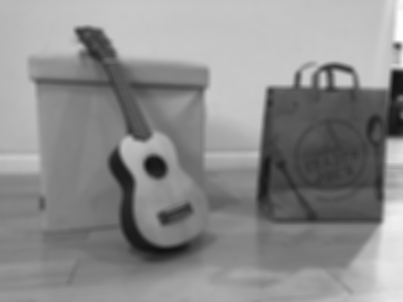
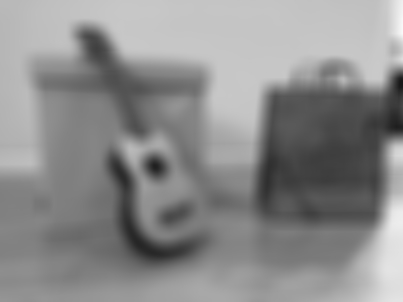
fixed a few more errors, but not working still

diff --git a/src/homography.cpp b/src/homography.cpp
@@ -34,6 +34,8 @@ vector<vector<float>> harris(const FloatImage im, int levels, vector<FloatImage>
     // get the spatially gradiated pyramid (using the sobel operator)
     for(int i = 0; i < levels; i++){
         vector<FloatImage> magOri = gradientMagnitude(pyramid[i], true);
+        // get dx, dy, sobel, and the orientation
+        // additionally, calculate dxx, dxy, and dyy
         harrisPyra.push_back({magOri[0]*magOri[0], magOri[0] * magOri[1], magOri[1]*magOri[1]});
         orientationPyra.push_back(magOri[3]);
     }
@@ -56,16 +58,18 @@ vector<vector<float>> harris(const FloatImage im, int levels, vector<FloatImage>
                 // // cout << H << endl;
                 // corners(x,y,0) = H.determinant()/H.trace();
 
+                // sum up Sxx, Sxy, Syy as most explanations describe
                 float Sxx = harrisPyra[l][0].smartAccessor(x-1,y-1,0,true) + harrisPyra[l][0].smartAccessor(x,y-1,0,true) + harrisPyra[l][0].smartAccessor(x+1,y-1,0,true)
                     + harrisPyra[l][0].smartAccessor(x-1,y,0,true) + harrisPyra[l][0](x,y,0) + harrisPyra[l][0].smartAccessor(x+1,y,0,true) 
                     + harrisPyra[l][0].smartAccessor(x-1,y+1,0,true) + harrisPyra[l][0].smartAccessor(x,y+1,0,true) + harrisPyra[l][0].smartAccessor(x+1,y+1,0,true);
-                float Sxy = harrisPyra[l][1].smartAccessor(x-1,y-1,0,true) + harrisPyra[l][1].smartAccessor(x,y-1,0,true) + harrisPyra[l][0].smartAccessor(x+1,y-1,0,true)
+                float Sxy = harrisPyra[l][1].smartAccessor(x-1,y-1,0,true) + harrisPyra[l][1].smartAccessor(x,y-1,0,true) + harrisPyra[l][1].smartAccessor(x+1,y-1,0,true)
                     + harrisPyra[l][1].smartAccessor(x-1,y,0,true) + harrisPyra[l][1](x,y,0) + harrisPyra[l][1].smartAccessor(x+1,y,0,true) 
-                    + harrisPyra[l][1].smartAccessor(x-1,y+1,0,true) + harrisPyra[l][2].smartAccessor(x,y+1,0,true) + harrisPyra[l][1].smartAccessor(x+1,y+1,0,true);
-                float Syy = harrisPyra[l][2].smartAccessor(x-1,y-1,0,true) + harrisPyra[l][2].smartAccessor(x,y-1,0,true) + harrisPyra[l][0].smartAccessor(x+1,y-1,0,true)
-                    + harrisPyra[l][2].smartAccessor(x-1,y,0,true) + harrisPyra[l][1](x,y,0) + harrisPyra[l][2].smartAccessor(x+1,y,0,true) 
+                    + harrisPyra[l][1].smartAccessor(x-1,y+1,0,true) + harrisPyra[l][1].smartAccessor(x,y+1,0,true) + harrisPyra[l][1].smartAccessor(x+1,y+1,0,true);
+                float Syy = harrisPyra[l][2].smartAccessor(x-1,y-1,0,true) + harrisPyra[l][2].smartAccessor(x,y-1,0,true) + harrisPyra[l][2].smartAccessor(x+1,y-1,0,true)
+                    + harrisPyra[l][2].smartAccessor(x-1,y,0,true) + harrisPyra[l][2](x,y,0) + harrisPyra[l][2].smartAccessor(x+1,y,0,true) 
                     + harrisPyra[l][2].smartAccessor(x-1,y+1,0,true) + harrisPyra[l][2].smartAccessor(x,y+1,0,true) + harrisPyra[l][2].smartAccessor(x+1,y+1,0,true);
 
+                // calculate determinant, trace and the corner strength
                 float det = (Sxx * Syy) - pow(Sxy,2);
                 float trace = Sxx + Syy;
 
@@ -88,7 +92,7 @@ vector<vector<float>> harris(const FloatImage im, int levels, vector<FloatImage>
                     corners(x,y,0) > corners.smartAccessor(x+1,y,0,true) &&
                     corners(x,y,0) > corners.smartAccessor(x-1,y+1,0,true) &&
                     corners(x,y,0) > corners.smartAccessor(x,y+1,0,true) &&
-                    corners(x,y,0) > corners.smartAccessor(x-1,y+1,0,true)
+                    corners(x,y,0) > corners.smartAccessor(x+1,y+1,0,true)
                 ){
                     // record interest points in format of (corner strength, x, y, level, orientation)
                     vector<float> interestPoint = {corners(x,y,0), (float) x, (float) y, (float) l, orientationPyra[l](x,y,0)};
@@ -210,12 +214,12 @@ vector<vector<float>> featureDescriptors(const FloatImage im, vector<FloatImage>
                 for (int m = 0; m < 5; m++){
                     for (int n = 0; n < 5; n++){
                         // calculate the adjusted coordinates accounting for patches
-                        int patchX = centerX -16 + j*4 + m;
-                        int patchY = centerY -16 + k*4 + n;
+                        int patchX = -16 + j*4 + m;
+                        int patchY = -16 + k*4 + n;
 
                         // calculate the rotated coordinate
-                        int rotateX = round(patchX * cosine - patchY * sine);
-                        int rotateY = round(patchX * sine + patchY * cosine);
+                        int rotateX = round(patchX * cosine - patchY * sine) + centerX;
+                        int rotateY = round(patchX * sine + patchY * cosine) + centerY;
                         p[m+5*n] = newPyramid[layer].smartAccessor(rotateX, rotateY, 0, true);
                     }
 
@@ -298,7 +302,7 @@ vector<FloatImage> grayscalePyramid(const FloatImage &im, int levels)
     FloatImage grayed = color2gray(im, weight_init);
 
     // get a gaussian pyramid using the grayscaled image
-    vector<FloatImage> pyramid = gaussianPyramid(grayed, 1, 3, true, levels);
+    vector<FloatImage> pyramid = gaussianPyramid(grayed, 3, 3, true, levels);
 
     return pyramid;
 }
@@ -315,6 +319,8 @@ vector<FloatImage> gaussianPyramid(const FloatImage &im, float sigma, float trun
     for(int i = 0; i < level; i++){
         // blur the image
         FloatImage blurImage = gaussianBlur_seperable(currentLevel, sigma, truncate, clamp);
+
+        // outputting gaussian pyramid pictures
         string hello = "/output/gausstest";
         string hello1 = to_string(i);
         string hello2 = ".jpg";
@@ -502,9 +508,12 @@ Matrix3f compute4MatchHomography(vector<vector<float>> keypoints1, vector<vector
     vector<vector<int>> matches(4);
     matches[0] = match1;matches[1] = match2;matches[2] = match3;matches[3] = match4;
 
-    // fill in the known values and adjust the coordinates as they are based on scaled coordinates
 
-    // explanation obtained from original teaching material of project
+    //////////////////////////////////////////////////////////////////////////////////////
+    // I HAVE LEFT 2 HOMOGRAPHY IMPLEMENATIONS, ONE MINE AND OTHER TANLI's. CURRENTLY USING TANLI's AS IT IS PROVEN TO WORK
+    //////////////////////////////////////////////////////////////////////////////////////
+
+    // fill in the known values and adjust the coordinates as they are based on scaled coordinates
 
     // 1st row [-x1, -y1, -1, 0, 0, 0, x1*x1', y1*x1', x1']
     known(0,0) = -keypoints1[match1[0]][1] * pow(2, keypoints1[match1[0]][3] + 1);
@@ -686,8 +695,8 @@ FloatImage showMatchingPoints(const FloatImage &im1, const FloatImage &im2){
     vector<vector<float>> feature1 = harris(im1, 5, pyra1);
     vector<vector<float>> feature2 = harris(im2, 5, pyra2);
     cout << "feature finding done" << endl;
-    feature1 = suppress(500, feature1);
-    feature2 = suppress(500, feature2);
+    feature1 = suppress(250, feature1);
+    feature2 = suppress(250, feature2);
     cout << "feature suppression done" << endl;
     vector<vector<float>> descriptor1 = featureDescriptors(im1, pyra1, feature1);
     vector<vector<float>> descriptor2 = featureDescriptors(im2, pyra2, feature2);
@@ -721,7 +730,7 @@ FloatImage autoStitch(const FloatImage &im1, const FloatImage &im2)
 {
 
     // warp left image and determine output image size
-    Matrix3f H = computeAutoHomograph(im1, im2, 5, 500, 3000, 0.18, 0.8);
+    Matrix3f H = computeAutoHomograph(im1, im2, 5, 250, 3000, 0.18, 0.8);
     FloatImage outIm1 = warpImage(im1, H);
     // outIm1.write("../data/output/part-A/warped-left-image.jpg");
     vector<float> bbox1 = computeTransformedBBox(im1.width(), im1.height(), H);
